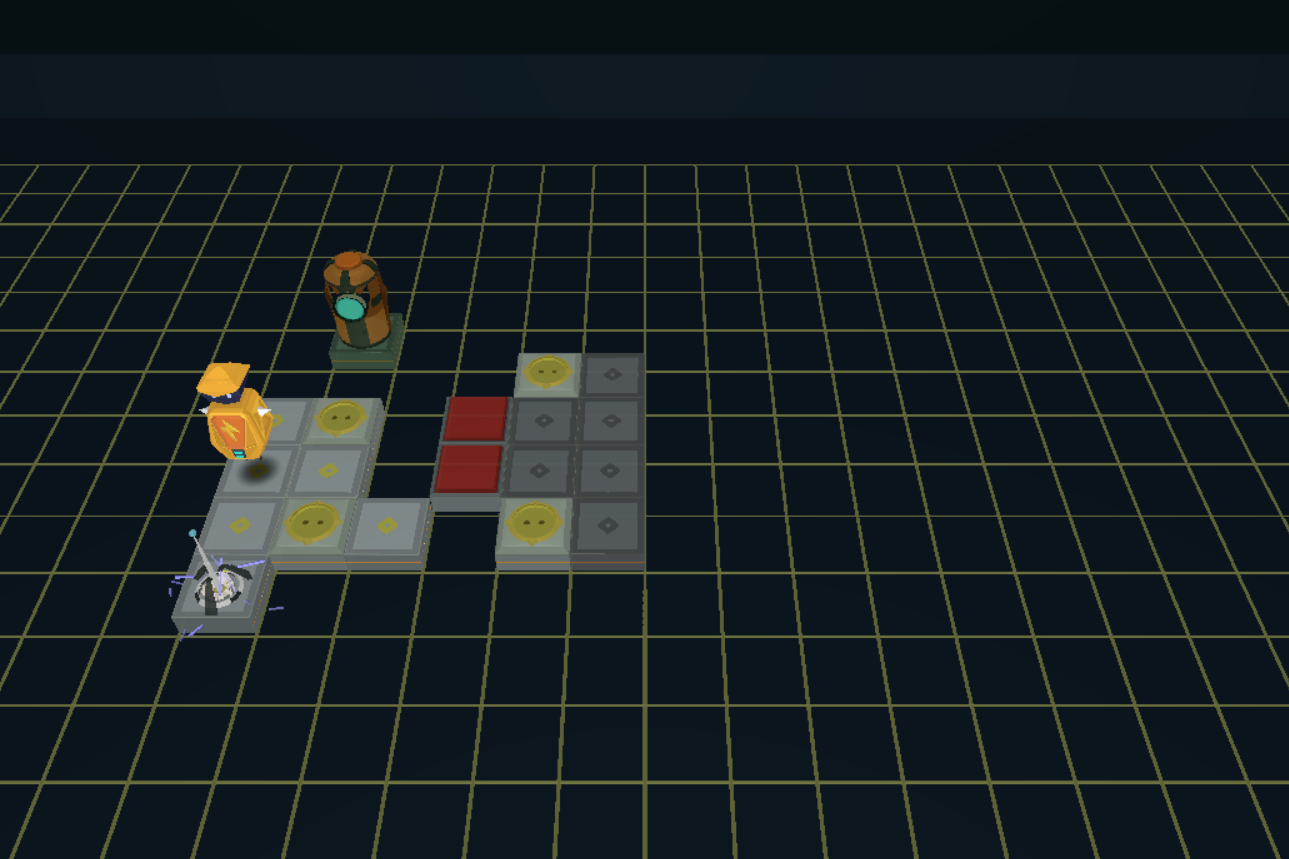
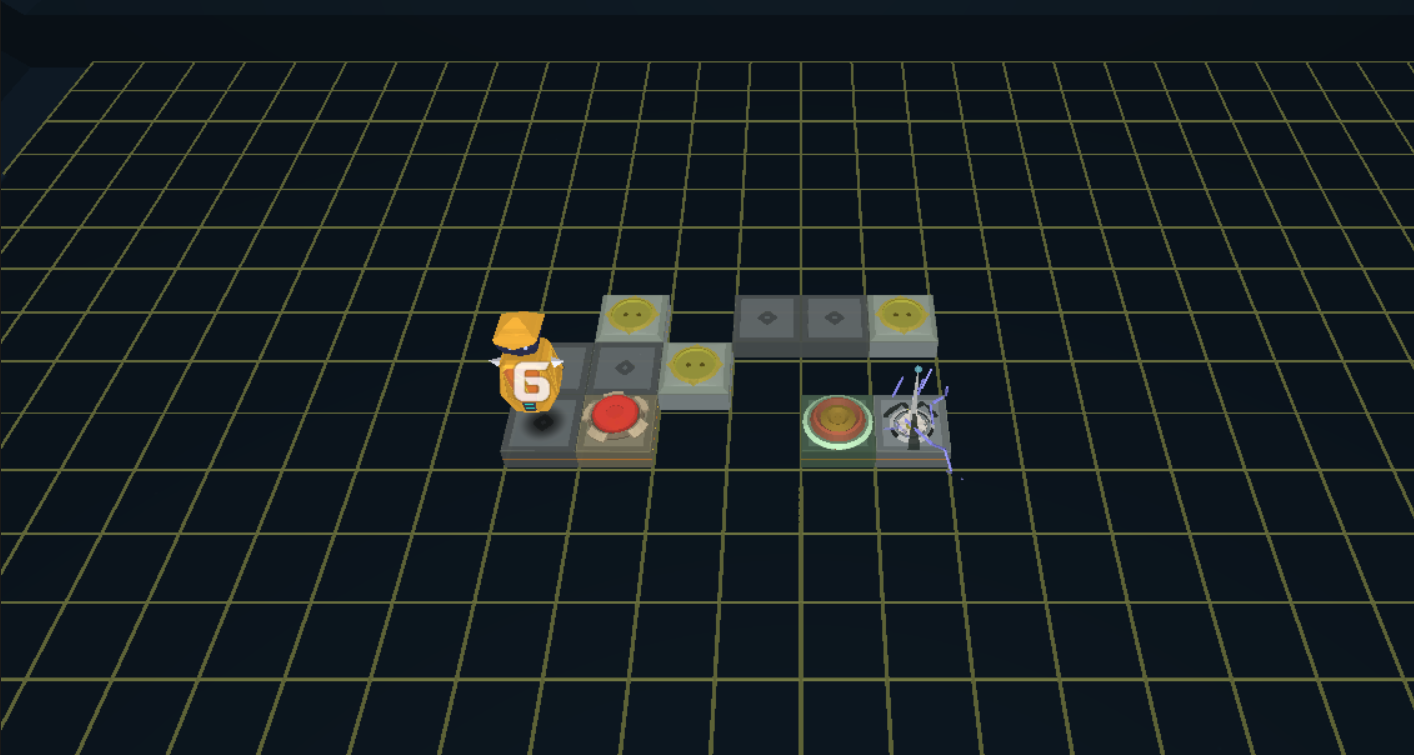
電気とボタンのチュートリアルの順番を変えた。またステージの写真を前目に。

diff --git a/Scene.cpp b/Scene.cpp
@@ -180,11 +180,11 @@ void SceneGame::Update()
 			}
 			if (scene->stageManager->selectStage == STAGE::STAGE3)
 			{
-				scene->tutorial->ButtonInitialize();
+				scene->tutorial->ElectricInitialize();
 			}
 			if (scene->stageManager->selectStage == STAGE::STAGE5)
 			{
-				scene->tutorial->ElectricInitialize();
+				scene->tutorial->ButtonInitialize();
 			}
 
 			GetBackManager::GetInstance()->Initialize(scene->player.get(), scene->playerSocket.get(), scene->blockManager, scene->cameraM.get());
@@ -250,12 +250,12 @@ void SceneGame::DrawSprite()
 		scene->tutorial->Draw();
 	}
 
-	obj[3].DrawBoxSprite({ 50,50,0 }, 0.2f, { 1.0f,1.0f,1.0f,1.0f }, scene->texhandle[7]);
-	obj[0].DrawBoxSprite({ 160,50,0 }, 0.2f, { 1.0f,1.0f,1.0f,1.0f }, scene->texhandle[3]);
-	obj[1].DrawBoxSprite({ 280,50,0 }, 0.2f, { 1.0f,1.0f,1.0f,1.0f }, scene->texhandle[4]);
+	//obj[3].DrawBoxSprite({ 50,50,0 }, 0.2f, { 1.0f,1.0f,1.0f,1.0f }, scene->texhandle[7]);
+	//obj[0].DrawBoxSprite({ 160,50,0 }, 0.2f, { 1.0f,1.0f,1.0f,1.0f }, scene->texhandle[3]);
+	//obj[1].DrawBoxSprite({ 280,50,0 }, 0.2f, { 1.0f,1.0f,1.0f,1.0f }, scene->texhandle[4]);
 
-	//
-	obj[2].DrawBoxSprite({ 0,0,0 }, 1.0f, { 1.0f,1.0f,1.0f,0.7f }, scene->texhandle[6]);
+	////
+	//obj[2].DrawBoxSprite({ 0,0,0 }, 1.0f, { 1.0f,1.0f,1.0f,0.7f }, scene->texhandle[6]);
 
 	if (!scene->player->isGoal)
 	{

diff --git a/PredictBlock.cpp b/PredictBlock.cpp
@@ -109,7 +109,6 @@ void PredictArrow::Initialize(Vec3 pos, Vec3 scale)
 	worldTransform_.scale = scale;
 	worldTransform_.SetWorld();
 
-
 	if(texhandle[0] == NULL)
 	{
 		TextureManager::GetInstance().LoadGraph(L"Resources/image/arrowRight.png", texhandle[0]);
@@ -119,13 +118,13 @@ void PredictArrow::Initialize(Vec3 pos, Vec3 scale)
 
 void PredictArrow::Update(int count)
 {
-	if(colorAlpha < 0.75f)
+	if(colorAlpha < 0.65f)
 	{
 		colorAlpha += 0.01f;
 	}
 	else
 	{
-		colorAlpha = 0.75f;
+		colorAlpha = 0.65f;
 	}
 	this->count = count;
 }
